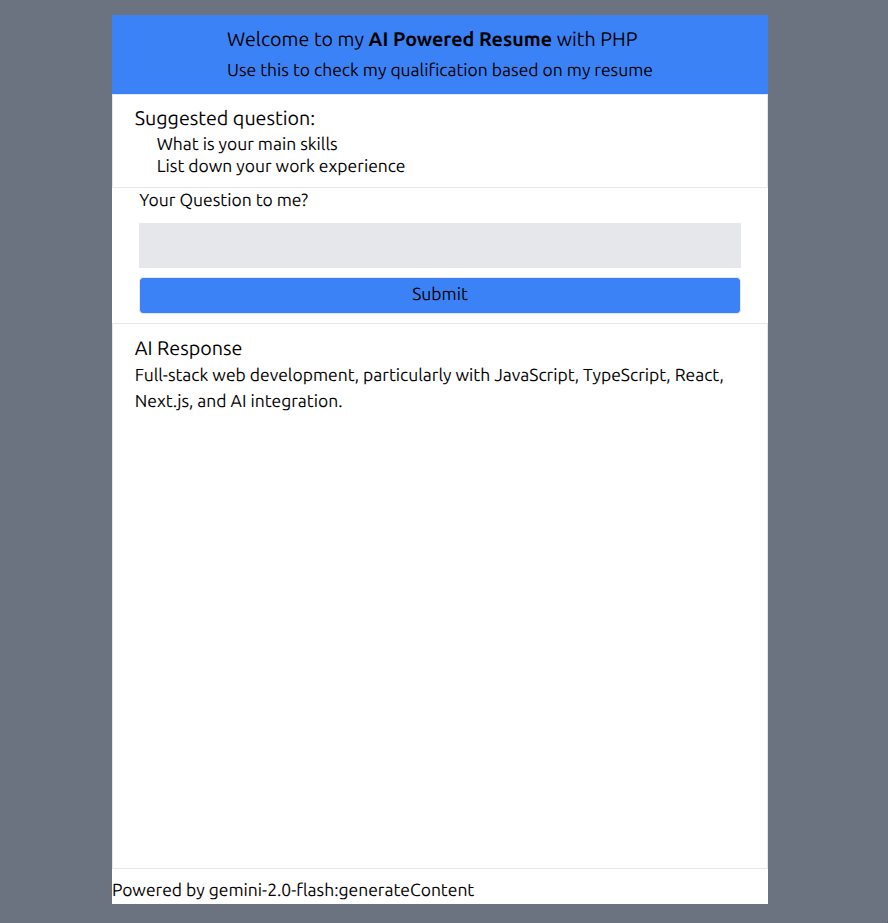
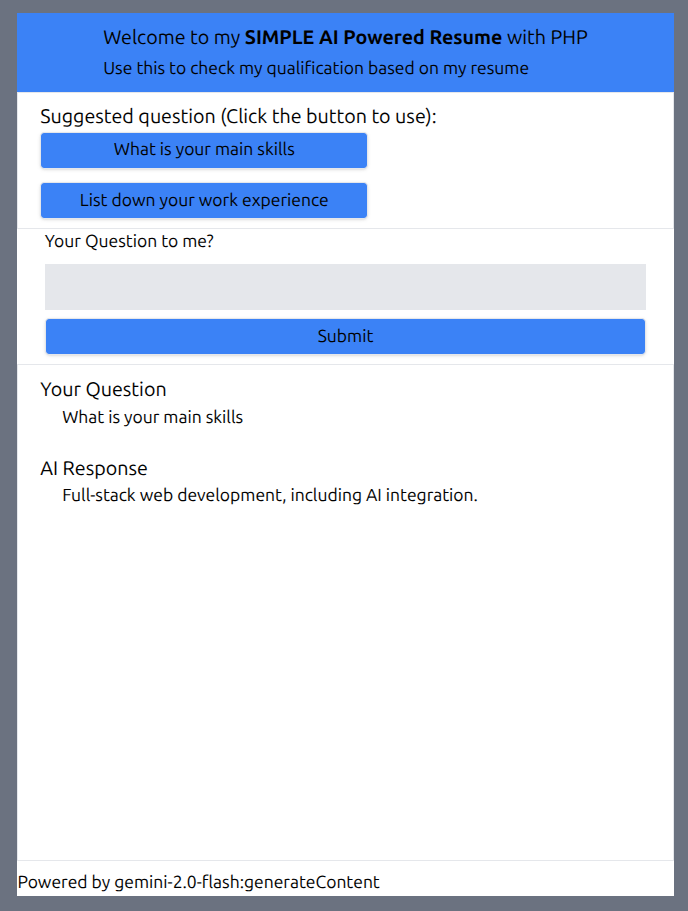
update the forhr code

diff --git a/forhr.php b/forhr.php
@@ -5,7 +5,6 @@
     <meta http-equiv='X-UA-Compatible' content='IE=edge'>
     <title>FOR HR</title>
     <meta name='viewport' content='width=device-width, initial-scale=1'>
-    <link rel='stylesheet' type='text/css' media='screen' href='main.css'>
     <script src="https://cdn.tailwindcss.com"></script>
 
 </head>
@@ -72,7 +71,7 @@
             <header class="flex justify-center p-2 bg-blue-500">
                 <h1 class="text-lg">
                     Welcome to my
-                    <span class="font-bold"> AI Powered Resume </span>
+                    <span class="font-bold"> SIMPLE AI Powered Resume </span>
                     with PHP
 
                     <br />
@@ -83,25 +82,30 @@
             </header>
 
             <div class="border px-5 py-2">
-                <h2 class="text-lg">Suggested question:</h2>
-                <p class="text-sm pl-5">
-                    What is your main skills
-                    <br />
-                    List down your work experience
-                </p>
+                <h2 class="text-lg">Suggested question (Click the button to use):</h2>
+
+                <div class="flex flex-col w-[80%] max-w-[300px]">
+                    <button id="q1" class="hover:bg-blue-600 bg-blue-500 border p-1 rounded shadow ">What is your main skills</button>
+                    <button id="q2" class="mt-3 hover:bg-blue-600 bg-blue-500 border p-1 rounded shadow">List down your work experience</button>
+                </div>
             </div>
 
             <form onsubmit="<?php $_SERVER['PHP_SELF'] ?>" method="get" class="w-11/12 mx-auto flex flex-col">
                 <label>Your Question to me?</label>
-                <input type="text" name="question" class="border p-2 bg-gray-200 my-2"/>
-                <button type="submit" class="bg-blue-500 border p-1 rounded" >Submit</button>
+                <input id="question" type="text" name="question" class="border p-2 bg-gray-200 my-2"/>
+                <button type="submit" class="hover:bg-blue-600 bg-blue-500 border p-1 rounded shadow " >Submit</button>
             </form>
             </div>
         
         <div class="border px-5 py-2 my-2 h-full">
+            <h1 class="text-lg">Your Question</h1>
+            <p class="mb-5 ml-5">
+                <?php echo $_GET['question'] ?>
+            </p>
+
             <h1 class="text-lg">AI Response</h1>
 
-            <p>
+            <p class="ml-5">
             <?php 
                 if (isset($_GET['question'])) {
                     require_once __DIR__ . '/vendor/autoload.php';
@@ -133,5 +137,14 @@
     </div>
 </body>
     
-</body>
+<script>
+    document.getElementById('q1').addEventListener('click', function() {
+        document.getElementById('question').value = 'What is your main skills';
+    });
+
+    document.getElementById('q2').addEventListener('click', function() {
+        document.getElementById('question').value = 'List down your work experience';
+    });
+</script>
+
 </html>
